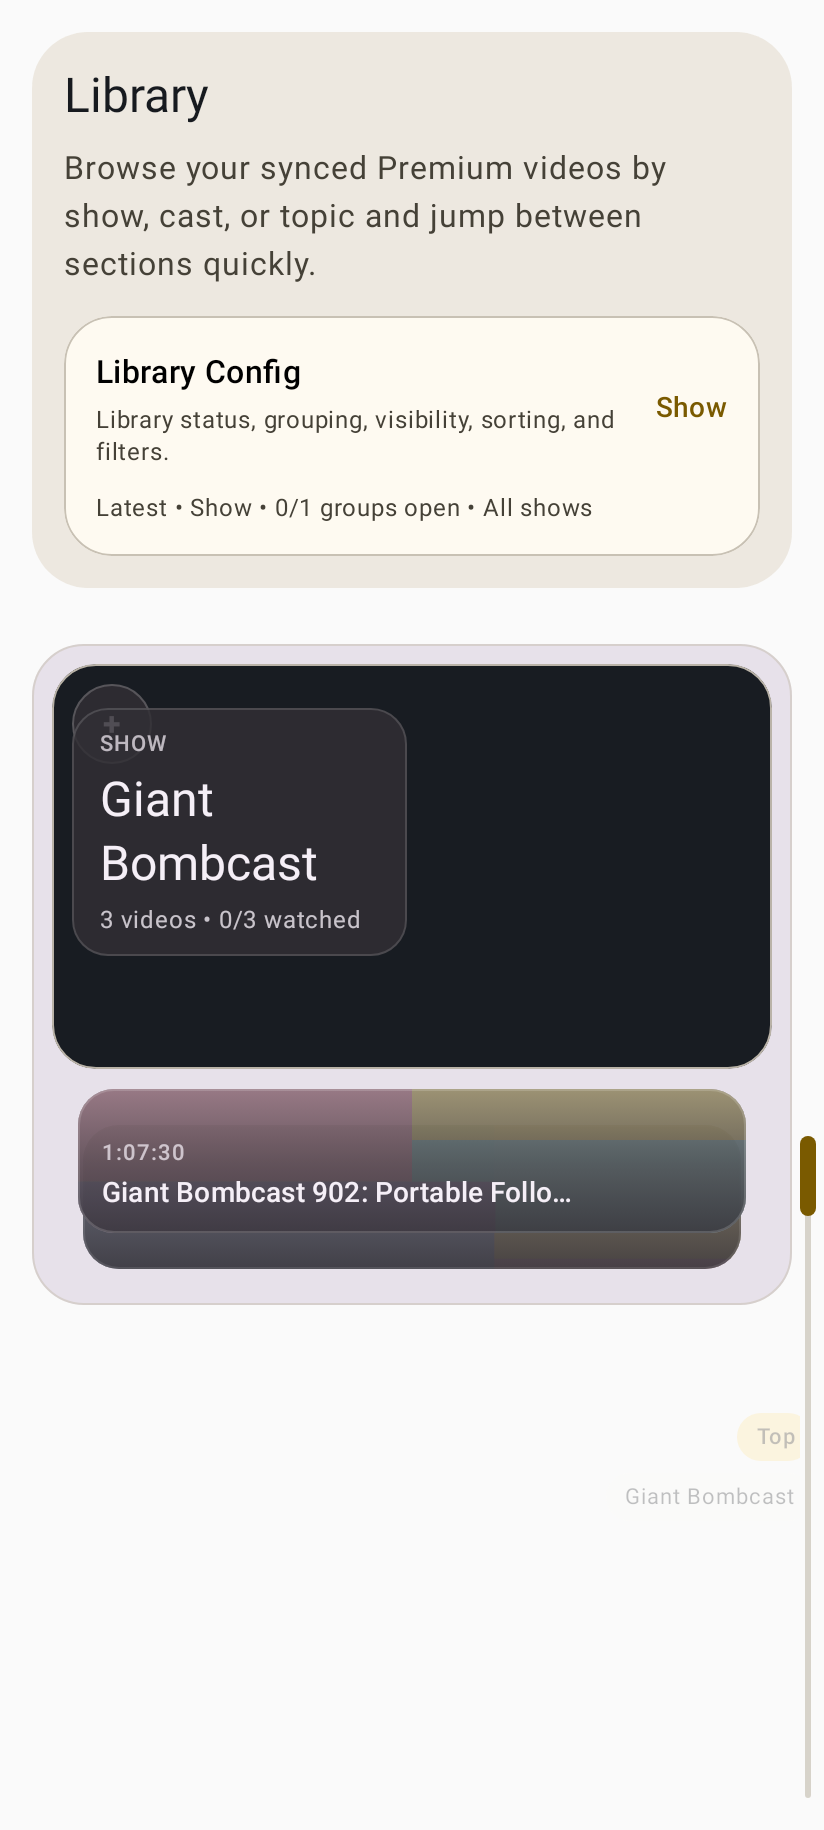
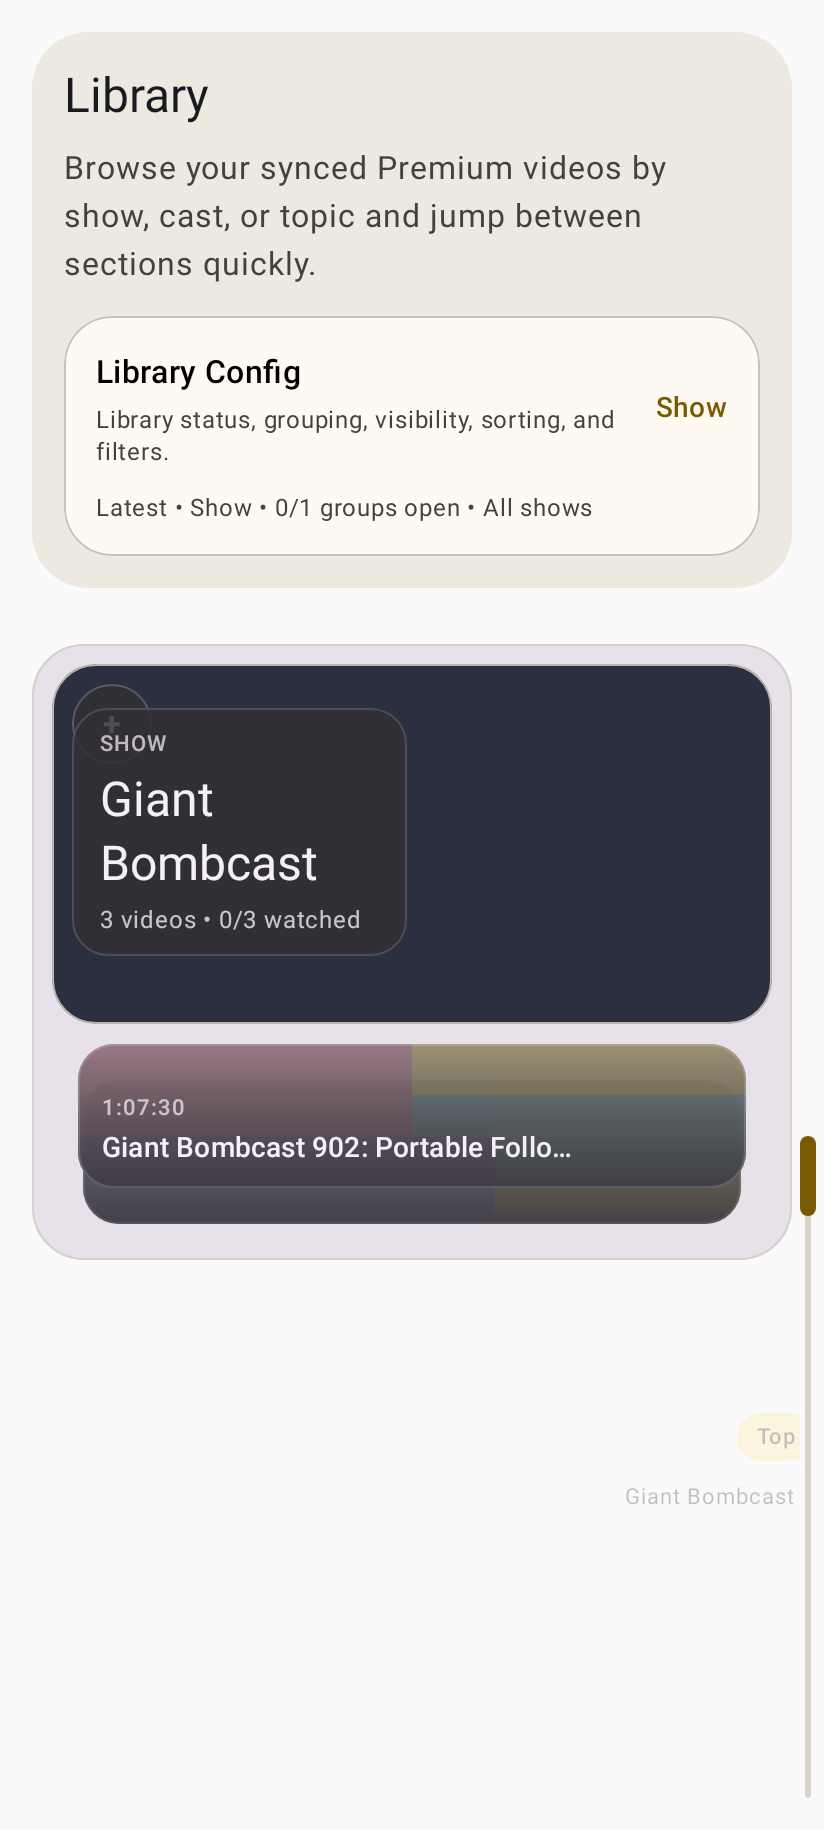
Lighten mosaic base, remove redundant base image layer, refresh baselines

Changed region(s): [[0.0303, 0.3426, 0.9709, 0.7164]]

diff --git a/feature/library/src/main/java/com/looktube/feature/library/LibraryRoute.kt b/feature/library/src/main/java/com/looktube/feature/library/LibraryRoute.kt
@@ -468,7 +468,6 @@ private fun ExpandedSeriesSectionBackdrop(
 ) {
     SeriesSectionBackdropMosaic(
         section = section,
-        baseArtAlpha = 0f,
         tileArtAlpha = 0.96f,
         tileColorAlpha = 0.2f,
         tileShadowElevation = 3.dp,
@@ -481,7 +480,6 @@ private fun CollapsedSeriesSectionBackdrop(
 ) {
     SeriesSectionBackdropMosaic(
         section = section,
-        baseArtAlpha = 0f,
         tileArtAlpha = 0.72f,
         tileColorAlpha = 0.16f,
         tileShadowElevation = 0.dp,
@@ -491,7 +489,6 @@ private fun CollapsedSeriesSectionBackdrop(
 @Composable
 private fun SeriesSectionBackdropMosaic(
     section: SeriesSection,
-    baseArtAlpha: Float,
     tileArtAlpha: Float,
     tileColorAlpha: Float,
     tileShadowElevation: Dp,
@@ -507,12 +504,8 @@ private fun SeriesSectionBackdropMosaic(
     BoxWithConstraints(
         modifier = Modifier
             .fillMaxSize()
-            .background(Color(0xFF181C22)),
+            .background(Color(0xFF2A3040)),
     ) {
-        SectionHeaderBackdropBaseImage(
-            video = section.videos.first(),
-            artAlpha = baseArtAlpha,
-        )
         val tileSpecs = remember(section.key) { groupHeaderBackdropTileSpecs(section.key) }
         tileSpecs.forEachIndexed { index, tile ->
             val video = section.videos[index % section.videos.size]
@@ -537,31 +530,6 @@ private fun SeriesSectionBackdropMosaic(
     }
 }
 
-@Composable
-private fun SectionHeaderBackdropBaseImage(
-    video: VideoSummary,
-    artAlpha: Float,
-) {
-    val thumbnailUrl = video.thumbnailUrl
-    Box(
-        modifier = Modifier.fillMaxSize(),
-    ) {
-        Box(
-            modifier = Modifier
-                .fillMaxSize()
-            .background(Color(0xFF181C22)),
-        )
-        if (!thumbnailUrl.isNullOrBlank()) {
-            ThumbnailImage(
-                thumbnailUrl = thumbnailUrl,
-                contentDescription = null,
-                modifier = Modifier.fillMaxSize(),
-                contentScale = ContentScale.Crop,
-                alpha = artAlpha,
-            )
-        }
-    }
-}
 
 @Composable
 private fun SectionHeaderBackdropPanel(
